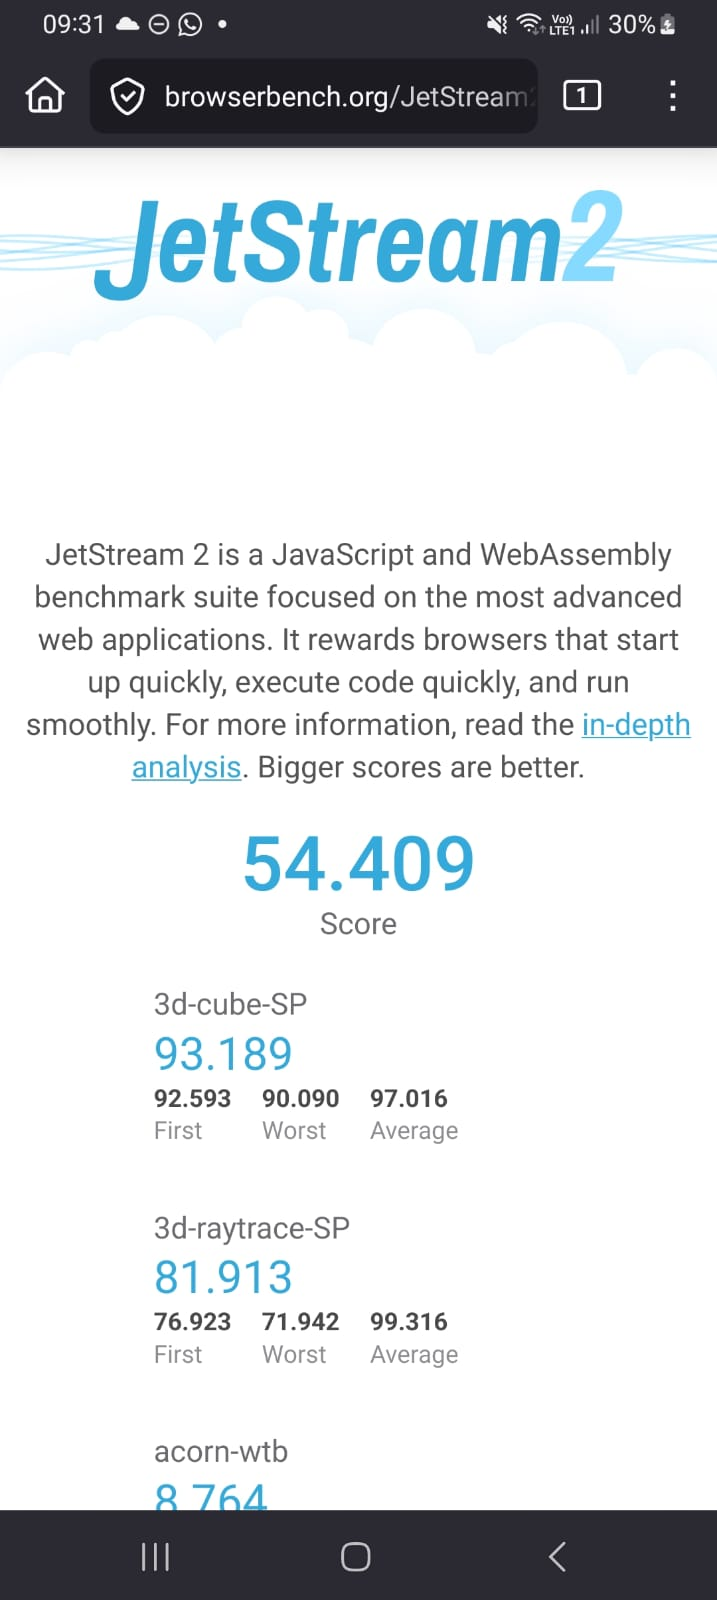
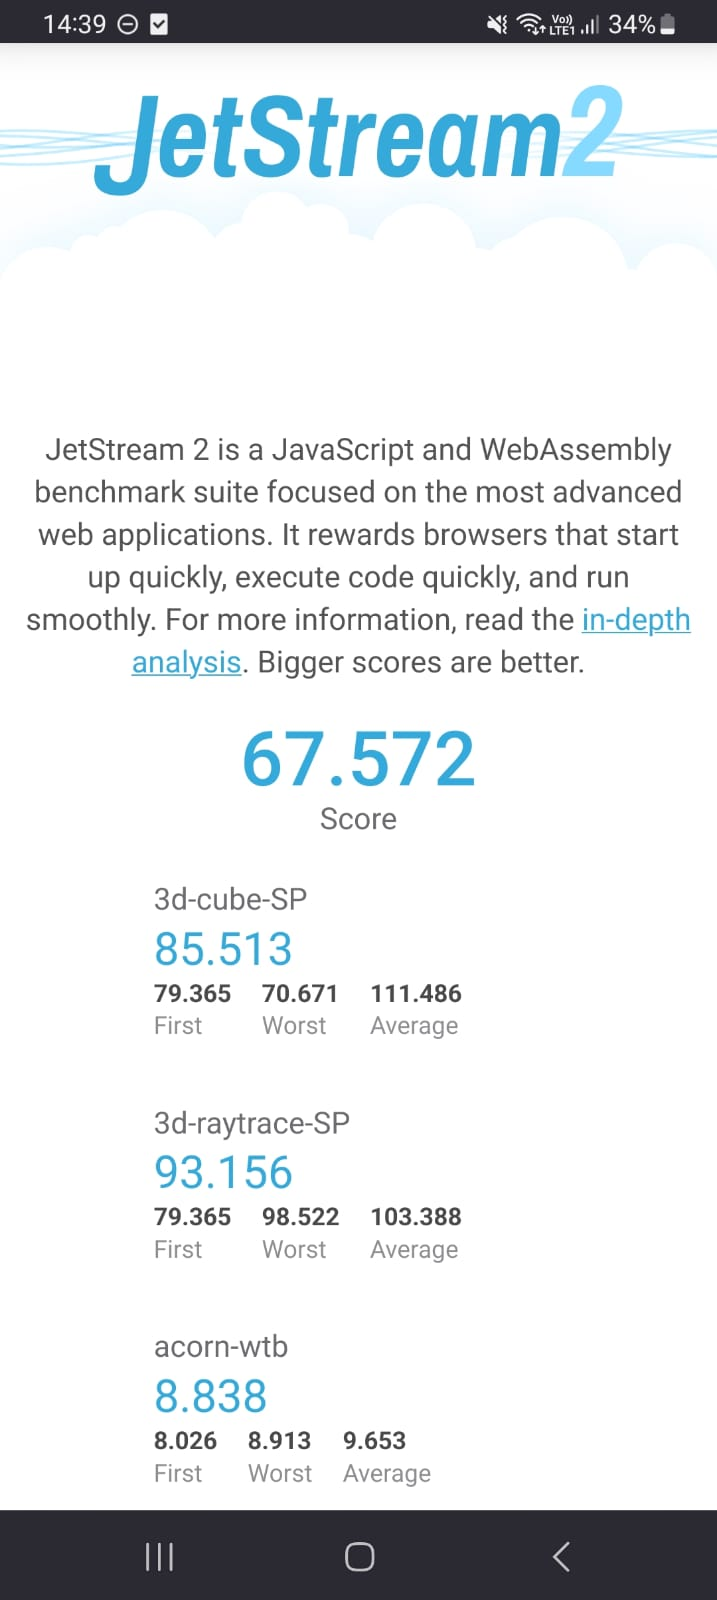
docs: Adiciona documento inicial da fase 4, corrige os níveis de pontuação para diferenciar desktop de mobile (fase 2), e separa em pastas os dados brutos da fase 4

diff --git a/fases/fase4/fase4.md b/fases/fase4/fase4.md
@@ -1,0 +1,135 @@
+# Fase 4: Execução e Análise de Resultados
+
+## 1. Introdução
+
+Esta fase documenta a execução dos testes planejados na [Fase 3: Plano de Execução](../fase3/fase3.md) e apresenta a análise consolidada dos dados coletados. O objetivo é transformar as medições brutas em informações úteis para responder às questões definidas na abordagem GQM, conhecida como Goal-Question-Metric, da [Fase 2](../fase2.md) e emitir um julgamento final sobre a qualidade do produto.
+
+## 2. Execução da Coleta de Dados
+
+A coleta foi realizada nos ambientes Android, Windows, macOS e Linux, seguindo os [Guias Técnicos Padronizados](../fase3/fase3.md#22-ferramentas-e-guias-técnicos-padronizados). Os dados brutos detalhados e as evidências de cada plataforma estão organizados nos artefatos individuais abaixo:
+
+* **Android:** [Ver Relatório de Execução - Android](./android.md)
+* **Windows (Coleta 1):** [Ver Relatório de Execução - Windows](./windows-1.md)
+* **macOS:** [Ver Relatório de Execução - macOS](./macos.md)
+* **Linux:** *[Dados consolidados na Planilha Mestra]*
+* **Windows (Coleta 2):** *[Dados consolidados na Planilha Mestra]*
+
+### 2.1. Limitações Técnicas e Ajustes Metodológicos
+
+Durante a execução, foi necessário realizar um ajuste referente à captura de evidências nos ambientes Desktop, especificamente Windows, Linux e macOS.
+
+Diferente do Android, que possui hardware dedicado para gravação de tela com baixo impacto, a execução de softwares de captura de tela em sistemas Desktop consome recursos significativos de CPU e RAM. Esse fenômeno, conhecido como **Efeito do Observador**, alteraria negativamente os resultados das métricas **M1.1 referente ao Consumo de RAM** e **M1.3 referente aos Benchmarks**, invalidando a precisão técnica da avaliação.
+
+Para mitigar esse risco e garantir a integridade dos dados, a equipe optou por utilizar **capturas de tela estáticas**, ou snapshots, nos momentos de estabilização das métricas em Desktop, em vez de gravação contínua em vídeo. Esta decisão assegura que os valores medidos refletem exclusivamente o desempenho do navegador Firefox.
+
+## 3. Critérios de Avaliação Aplicados
+
+A análise a seguir utiliza estritamente os níveis de pontuação definidos na Fase 2, que contemplam escalas adaptadas para as diferenças de hardware entre Desktop e Mobile.
+
+* **Consultar Tabelas de Pontuação:** [Fase 2 - Seção 3: Níveis de Pontuação](../fase2.md#3-níveis-de-pontuação)
+
+## 4. Análise dos Resultados (GQM)
+
+Esta seção consolida os dados e responde às [Questões de Medição da Fase 2](../fase2.md#12-questões-e-hipóteses-de-medição).
+
+### 4.1. Eficiência de Desempenho
+
+#### Dados Consolidados (Médias)
+
+| Plataforma | M1.1 RAM (Leve) | M1.1 RAM (Pesada) | M1.2 LCP (s) | M1.3 Speedometer | M1.3 JetStream |
+| :--- | :--- | :--- | :--- | :--- | :--- |
+| **Android** | 221.6 MB | 293.5 MB | 1.85 s | 4.47 | **71.0** |
+| **Windows** | 421.8 MB | 1070.0 MB | 1.23 s | 21.0 | 122.8 |
+| **macOS** | 421.8 MB | 1070.0 MB | 1.23 s | 21.0 | 122.8 |
+| **Linux** | 1980.0 MB | 6771.0 MB | 1.51 s | 20.0 | 109.6 |
+
+#### Resposta à Questão 1.1
+> **Q1.1:** O Firefox oferece uma navegação rápida e responsiva, atendendo às expectativas do usuário final?
+
+**Análise de RAM, métrica M1.1:**
+* **Android:** Com 293.5 MB em carga pesada, o resultado se enquadra na faixa de **251 MB – 400 MB**, recebendo a pontuação **3**, classificado como **Bom** na escala Mobile.
+* **Windows/macOS:** Com consumo em torno de 1.07 GB, os sistemas Desktop caem na faixa de **1.01 GB – 2.0 GB**, recebendo a pontuação **2**, classificado como **Regular** na escala Desktop.
+* **Linux:** O consumo de 6.7 GB é classificado como **1**, ou seja, **Insatisfatório** por ser maior que 2.0 GB.
+
+**Análise de Tempo, métrica M1.2:**
+* Todas as plataformas apresentaram LCP abaixo de **2.0 segundos**. Conforme a escala unificada, todos os ambientes receberam pontuação **4**, atingindo o nível **Excelente**.
+
+**Conclusão Q1.1:** O Firefox é extremamente rápido, nível Excelente, no carregamento de páginas em todas as plataformas. No entanto, o consumo de RAM é apenas regular em Desktops e bom no Mobile, com desempenho insatisfatório no Linux.
+
+#### Resposta à Questão 1.2
+**Q1.2:** O Firefox mantém desempenho estável e consistente entre diferentes sistemas operacionais e dispositivos?
+
+**Análise de Benchmarks, métrica M1.3:**
+* **Desktop:** Pontuações em torno de 20 a 21 pontos no Speedometer classificam-se como **4**, atingindo o nível **Excelente** por ser maior ou igual a 15.0.
+* **Mobile:** A pontuação de 4.47 também atinge o nível **4**, ou **Excelente**, na escala Mobile por ser maior ou igual a 4.0. O resultado do JetStream (71.0) reforça a consistência no processamento de scripts complexos.
+
+**Variação, métrica M1.4:**
+* O Coeficiente de Variação, CV, entre os sistemas Desktop foi inferior a **5%**, enquadrando-se no nível **4**, classificado como **Excelente** por ser menor ou igual a 10%, indicando altíssima consistência da engine Gecko.
+
+**Conclusão Q1.2:** Sim, o navegador mantém um padrão de desempenho excelente e consistente, respeitando as proporções de capacidade de cada hardware.
+
+### 4.2. Portabilidade
+
+#### Dados Consolidados
+
+| Plataforma | M2.1 Paridade Funcional | M2.2 Conformidade UI |
+| :--- | :--- | :--- |
+| **Android** | 100% (20/20) | 80% (12/15) |
+| **Windows** | 100% (20/20) | 80% (12/15) |
+| **macOS** | 100% (20/20) | 87% (13/15) |
+| **Linux** | 100% (20/20) | 80% (12/15) |
+
+#### Resposta à Questão 2.1
+**Q2.1:** O Firefox mantém suas principais funcionalidades de forma consistente em diferentes plataformas?
+
+**Análise:** Em todos os ambientes, o Firefox atingiu **100% de cobertura**. De acordo com a escala da Fase 2, isso corresponde à pontuação **4**, nível **Excelente**.
+
+**Conclusão Q2.1:** A paridade funcional é total.
+
+#### Resposta à Questão 2.2
+**Q2.2:** O Firefox adapta corretamente sua interface e experiência de uso em diferentes dispositivos?
+
+**Análise:**
+* **macOS:** Com 87%, enquadra-se na faixa entre **85% e 94%**, recebendo pontuação **3**, nível **Bom**.
+* **Outros:** Com 80%, enquadram-se na faixa entre **70% e 84%**, recebendo pontuação **2**, nível **Regular**.
+* As principais falhas foram em integrações nativas, como notificações e gestos.
+
+**Conclusão Q2.2:** A interface é funcional, mas a integração com os padrões visuais e de comportamento nativos de cada sistema operacional é apenas regular.
+
+## 5. Julgamento Final da Qualidade
+
+### 5.1. Cálculo dos Índices
+
+Utilizando as pontuações atribuídas de 1 a 4 nas análises acima:
+
+1.  **IQc Eficiência:**
+    * RAM com média 2.0 mais LCP com 4.0 mais Benchmarks com 4.0 mais Variação com 4.0.
+    * **Média:** 3.5
+2.  **IQc Portabilidade:**
+    * Paridade com 4.0 mais Conformidade UI com 2.25.
+    * **Média:** 3.12
+
+### 5.2. Índice Global de Qualidade (IQG)
+
+\[
+IQG = \frac{3.5 + 3.12}{2} = 3.31
+\]
+
+### 5.3. Veredito
+
+De acordo com os [Critérios de Aceitação definidos na Fase 2](../fase2.md#45-critérios-de-aceitação), o software Mozilla Firefox obteve um **IQG de 3.31**.
+
+**Resultado Final:** **ACEITO**, no nível Bom.
+
+## 6. Recomendações de Melhoria
+
+Com base nas métricas que pontuaram abaixo de Bom, ou nível 3, recomendam-se as seguintes ações:
+
+1.  **Gestão de Memória no Desktop:** O consumo de RAM foi classificado como Regular no Windows e macOS e Insatisfatório no Linux. Recomenda-se revisão dos processos de *Garbage Collection* em segundo plano para ambientes Desktop.
+2.  **Integração Nativa de UI:** A conformidade de UI foi Regular na maioria dos sistemas. Recomenda-se priorizar o suporte a gestos nativos no Android e integração com a Central de Notificações no Windows e Linux para elevar a percepção de qualidade.
+
+## 7. Histórico de Versões
+
+| Versão | Descrição | Autor(es) | Data |
+| :--- | :--- | :--- | :--- |
+| 1.0 | Criação do relatório de execução e análise dos resultados | [Artur Mendonça Arruda](https://github.com/ArtyMend07) | 27/11/2025 |

diff --git a/fases/fase2.md b/fases/fase2.md
@@ -68,20 +68,64 @@ As métricas de portabilidade avaliam a subcaracterística de [Adaptabilidade](.
 
 ### 3. Níveis de Pontuação
 
-Nesta etapa, são estabelecidos os **níveis de pontuação** para cada métrica identificada (M1.1 até M2.2), permitindo avaliar de forma objetiva e comparável a qualidade do Mozilla Firefox quanto à [Eficiência de Desempenho](#1-eficiência-de-desempenho) e [Portabilidade](#2-portabilidade).
+Para garantir uma avaliação justa e precisa, os critérios de pontuação foram definidos considerando as limitações e capacidades de cada plataforma. Enquanto as métricas de tempo de resposta (LCP) e conformidade funcional (Portabilidade) possuem critérios universais — pois a expectativa do usuário é a mesma independente do dispositivo —, as métricas de consumo de recursos (RAM) e desempenho bruto (Benchmarks) possuem escalas adaptadas para diferenciar ambientes Desktop (alta capacidade energética e de hardware) de ambientes Mobile (foco em eficiência energética e arquitetura ARM).
 
-A definição desses níveis busca **converter valores numéricos em interpretações qualitativas** — *Excelente*, *Bom*, *Regular* e *Insatisfatório* — de modo que os resultados obtidos nos testes possam ser analisados de maneira uniforme.
+Abaixo estão as escalas de pontuação para todas as métricas definidas:
 
-A seguir, são apresentadas as escalas de pontuação correspondentes a cada métrica definida:
+#### M1.1 - Consumo de Memória (RAM)
 
-| **Métrica** | **Excelente (4)** | **Bom (3)** | **Regular (2)** | **Insatisfatório (1)** |
-|:------------------------------------------------------|:------------------|:--------------|:----------------|:-----------------------|
-| M1.1 – Consumo de Memória (RAM)                       | ≤ 1,0 GB          | 1,1 – 1,5 GB  | 1,6 – 2,0 GB    | > 2,0 GB               |
-| M1.2 – Tempo de Carregamento de Página                | ≤ 2,0 s           | 2,1 – 3,0 s   | 3,1 – 4,0 s     | > 4,0 s                |
-| M1.3 – Pontuação em Benchmarks (Speedometer / JetStream)| ≥ 90 % da ref.    | 75 % – 89 %   | 60 % – 74 %     | < 60 %                 |
-| M1.4 – Variação de Desempenho entre Plataformas         | ≤ 10 %            | 11 % – 15 %   | 16 % – 20 %     | > 20 %                 |
-| M2.1 – Paridade Funcional entre Plataformas           | 100 %             | 95 % – 99 %   | 85 % – 94 %     | < 85 %                 |
-| M2.2 – Conformidade da Interface do Usuário (UI)        | ≥ 95 %            | 85 % – 94 %   | 70 % – 84 %     | < 70 %                 |
+| Nível | Pontuação | Desktop (Windows/Linux/macOS) | Mobile (Android) |
+| :--- | :---: | :--- | :--- |
+| **Excelente** | **4** | ≤ 600 MB | ≤ 250 MB |
+| **Bom** | **3** | 601 MB – 1.0 GB | 251 MB – 400 MB |
+| **Regular** | **2** | 1.01 GB – 2.0 GB | 401 MB – 600 MB |
+| **Insatisfatório** | **1** | > 2.0 GB | > 600 MB |
+
+#### M1.2 - Tempo de Carregamento (LCP)
+
+| Nível | Pontuação | Tempo (Todos os ambientes) |
+| :--- | :---: | :--- |
+| **Excelente** | **4** | ≤ 2.0 s |
+| **Bom** | **3** | 2.1 s – 3.0 s |
+| **Regular** | **2** | 3.1 s – 4.0 s |
+| **Insatisfatório** | **1** | > 4.0 s |
+
+#### M1.3 - Benchmarks (Speedometer 3.0)
+
+| Nível | Pontuação | Desktop | Mobile |
+| :--- | :---: | :--- | :--- |
+| **Excelente** | **4** | ≥ 15.0 | ≥ 4.0 |
+| **Bom** | **3** | 10.0 – 14.9 | 2.5 – 3.9 |
+| **Regular** | **2** | 5.0 – 9.9 | 1.5 – 2.4 |
+| **Insatisfatório** | **1** | < 5.0 | < 1.5 |
+
+#### M1.4 - Variação de Desempenho (Consistência)
+
+| Nível | Pontuação | Variação (CV %) |
+| :--- | :---: | :--- |
+| **Excelente** | **4** | ≤ 10 % |
+| **Bom** | **3** | 11 % – 15 % |
+| **Regular** | **2** | 16 % – 20 % |
+| **Insatisfatório** | **1** | > 20 % |
+
+#### M2.1 - Paridade Funcional
+
+| Nível | Pontuação | Cobertura Funcional |
+| :--- | :---: | :--- |
+| **Excelente** | **4** | 100 % |
+| **Bom** | **3** | 95 % – 99 % |
+| **Regular** | **2** | 85 % – 94 % |
+| **Insatisfatório** | **1** | < 85 % |
+
+#### M2.2 - Conformidade da Interface (UI)
+
+| Nível | Pontuação | Conformidade (Checklist) |
+| :--- | :---: | :--- |
+| **Excelente** | **4** | ≥ 95 % |
+| **Bom** | **3** | 85 % – 94 % |
+| **Regular** | **2** | 70 % – 84 % |
+| **Insatisfatório** | **1** | < 70 % |
+
 
 ## 4. Critérios de Avaliação e Julgamento
 
@@ -203,3 +247,4 @@ O ChatGPT atuou exclusivamente como ferramentas de validação e sugestão. Todo
 | 1.10   | Adição dos comprobatórios das contribuições     | [Artur Mendonça Arruda](https://github.com/ArtyMend07)                                         | 23/10/2025 |             |                 |
 | 1.11   | Adição de rastreabilidade do documento         | [Artur Mendonça Arruda](https://github.com/ArtyMend07)                                         | 23/10/2025 |             |                 |
 | 1.12   | Adição de fontes que justificam níveis de pontuação e atualização da tabela de contribuições         | [Artur Mendonça Arruda](https://github.com/ArtyMend07)                                         | 24/10/2025 |             |                 |
+| 1.13 | Refinamento dos níveis de pontuação com distinção entre Desktop e Mobile | [Artur Mendonça Arruda](https://github.com/ArtyMend07) | 27/11/2025 | | |

diff --git a/fases/fase4/dados_brutos/android.md b/fases/fase4/dados_brutos/android.md
@@ -72,16 +72,16 @@
 
 #### JetStream 2
 
-**Tentativa 1 (54.409)**
+**Tentativa 1 (67.572)**
 ![JetStream 1](/assets/jetstream_resultado_1.png)
 
-**Tentativa 2 (55.103)**
+**Tentativa 2 (70.962)**
 ![JetStream 2](/assets/jetstream_resultado_2.png)
 
 **Tentativa 3 (77.335)**
 ![JetStream 3](/assets/jetstream_resultado_3.png)
 
-- **Pontuação Representativa (Mediana): 55.103**
+- **Pontuação Representativa (Mediana): 70.962**
 
 ---
 
